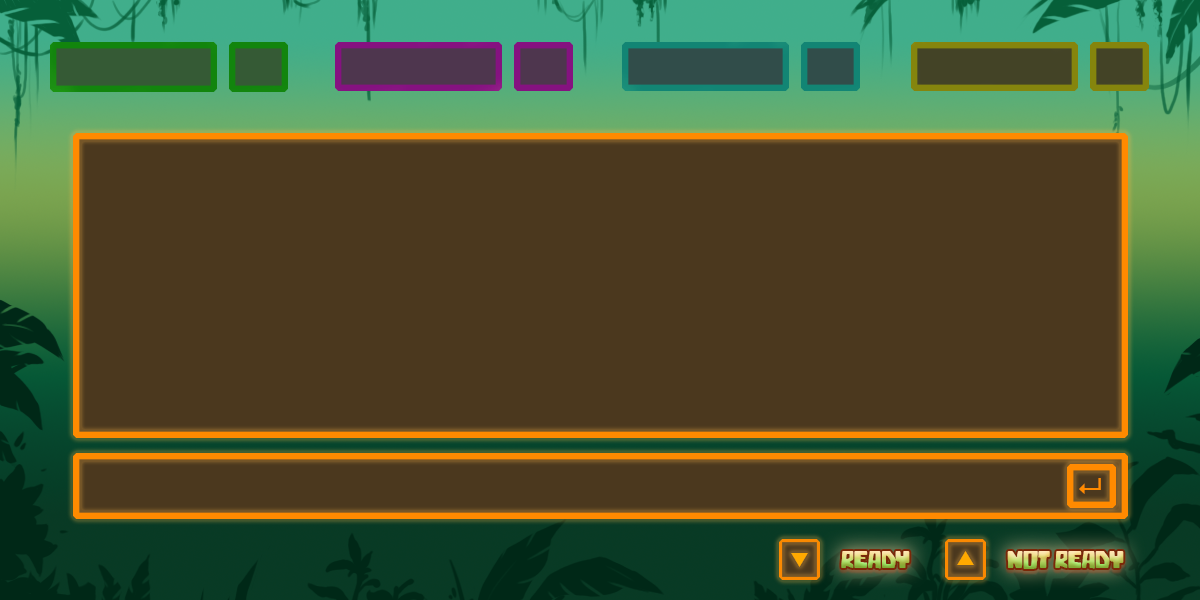
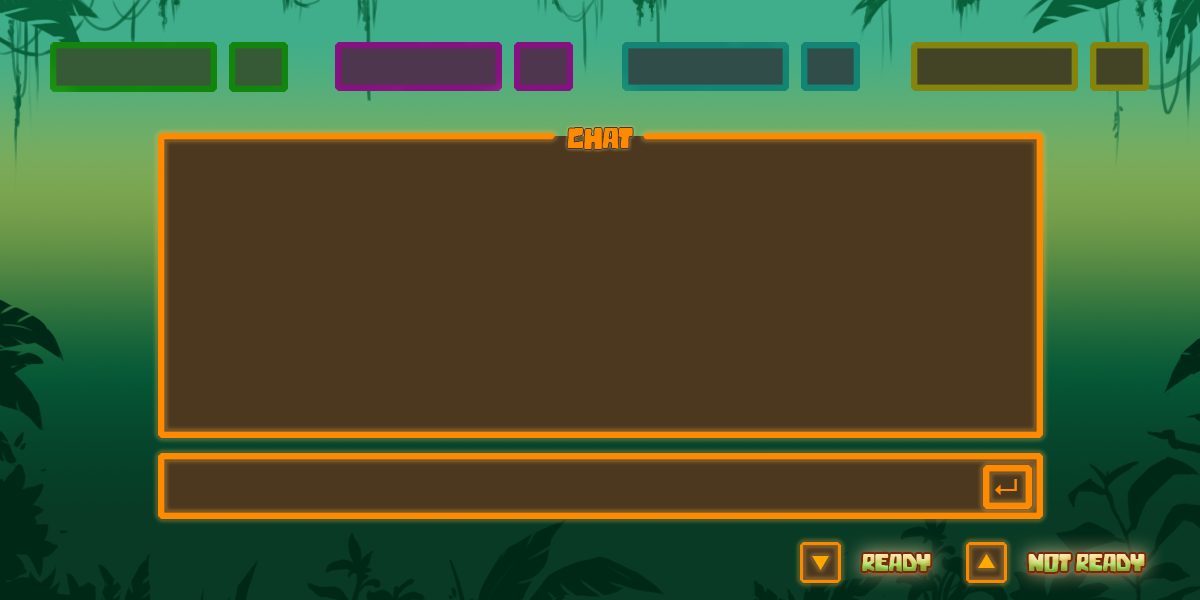
Lobby background updated and cleaning code.

Changed region(s): [[0.6475, 0.21, 0.9867, 0.99], [0.0308, 0.21, 0.1542, 0.87], [0.4625, 0.21, 0.555, 0.27]]

diff --git a/MangoMambo/Development/scenes/online_lobby.js b/MangoMambo/Development/scenes/online_lobby.js
@@ -9,6 +9,7 @@ class OnlineLobby extends Phaser.Scene{
         this.vol = data.volume;
         data = null; 
     }
+    
     preload(){
         // Pantalla de Carga
         var loadingImg = this.add.image(0, 0, "loading_background").setOrigin(0, 0).setDepth(-1);
@@ -47,6 +48,8 @@ class OnlineLobby extends Phaser.Scene{
         this.load.image("lobby_background", "./Design/Stages/Backgrounds/lobby_background.png");
         // Boton de escape
         this.load.image("escape_button", "./Design/Objects/Buttons/escape_button.png");
+        // Flecha que señala dónde se escribe
+        this.load.image("start_msg", "./Design/Objects/start_msg.png");
         // Jugadores
         this.load.image("player1_online", "./Design/Objects/Text/player1_online.png");
         this.load.image("player2_online", "./Design/Objects/Text/player2_online.png");
@@ -78,6 +81,18 @@ class OnlineLobby extends Phaser.Scene{
         this.add.image(0, 0, "lobby_background").setOrigin(0, 0);
         // Boton escape
         this.escapeButton = this.add.image(45, 20, "escape_button").setDepth(1);
+         // Flecha que señala dónde se escribe
+        this.startMsg = this.add.image(184, 486, "start_msg");
+        // Movimiento
+        var tweenStart = this.tweens.add({
+            targets: this.startMsg,
+            scaleX: 0.93,
+            scaleY: 0.93,
+            ease: 'Sine.easeInOut',
+            duration: 2000,
+            yoyo: true,
+            repeat: -1
+        });
         // Jugadores
         this.playersImg = [];
         this.playersImg[0] = this.add.image(169.09, 67, "player1_online");
@@ -120,34 +135,7 @@ class OnlineLobby extends Phaser.Scene{
                 this.myPlayerImg = this.add.image(1029.50, 81.88, "you_Y_player");
                 break;
         }
-        
-        /*
-        //CHAT
-        var x = document.getElementById("TEXTAREA");
-
-        this.formUtil = new FormUtil({
-            scene: this,
-            rows: 11,
-            cols: 11
-        });
-        this.formUtil.showNumbers();
-        //
-        //
-        //
-        this.formUtil.scaleToGameW("TEXTAREA", .3);
-        this.formUtil.placeElementAt(16, 'TEXTAREA', true);
-        //
-        //
-        //
-        this.formUtil.scaleToGameW("TEXTAREA", .8);
-        this.formUtil.scaleToGameH("TEXTAREA", .5);
-        this.formUtil.placeElementAt(60, "TEXTAREA", true, true);
-        this.formUtil.addChangeCallback("TEXTAREA", this.textAreaChanged, this);
-        //
-        //
-        //
-        */
-        
+ 
        // Texto del chat
        this.textChat = this.make.text({
     	   x: 94.60,
